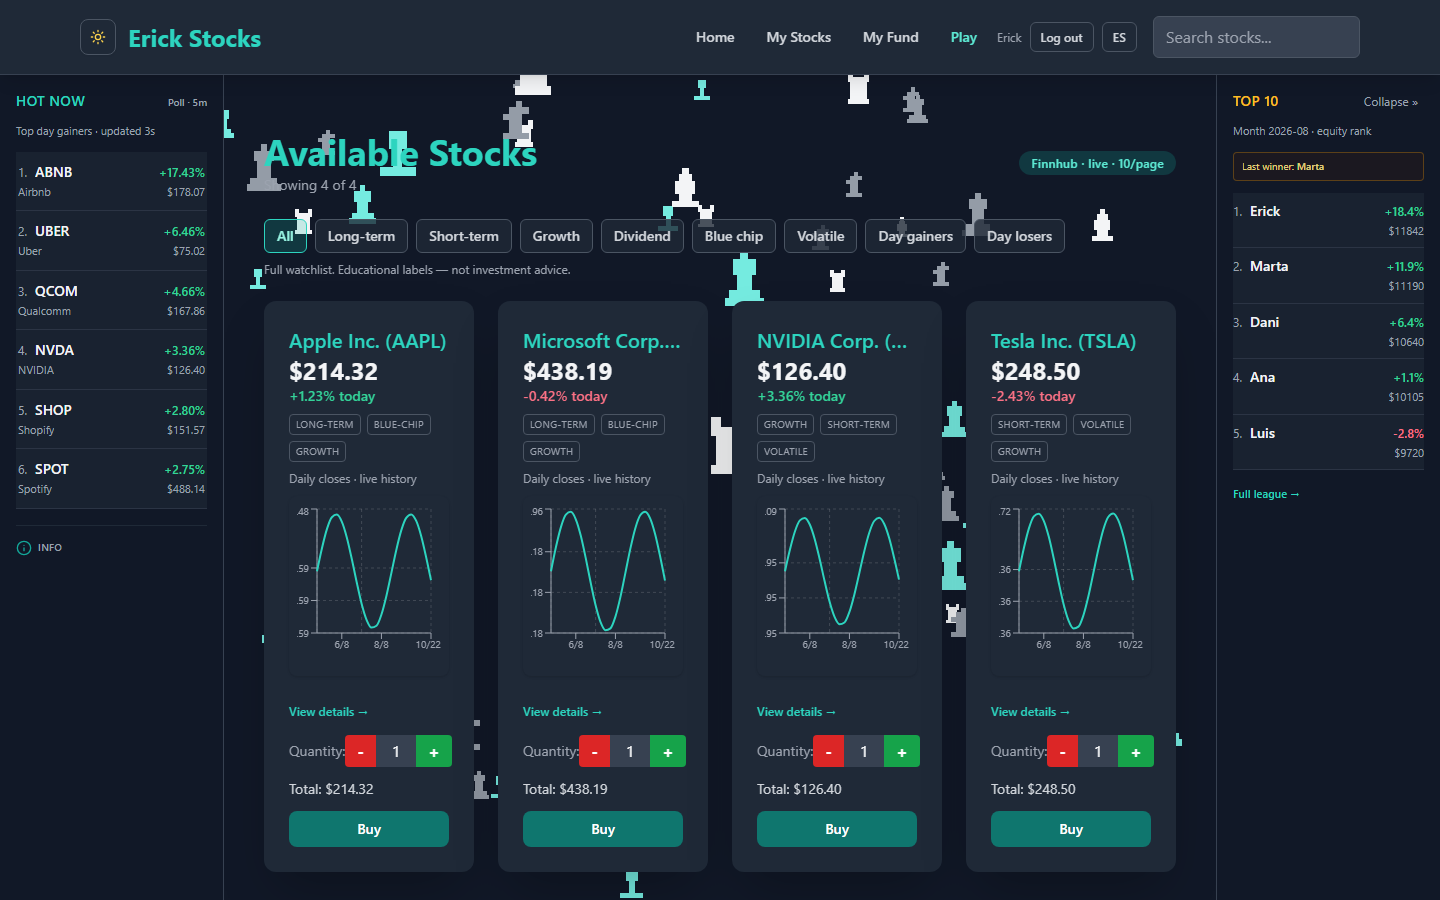
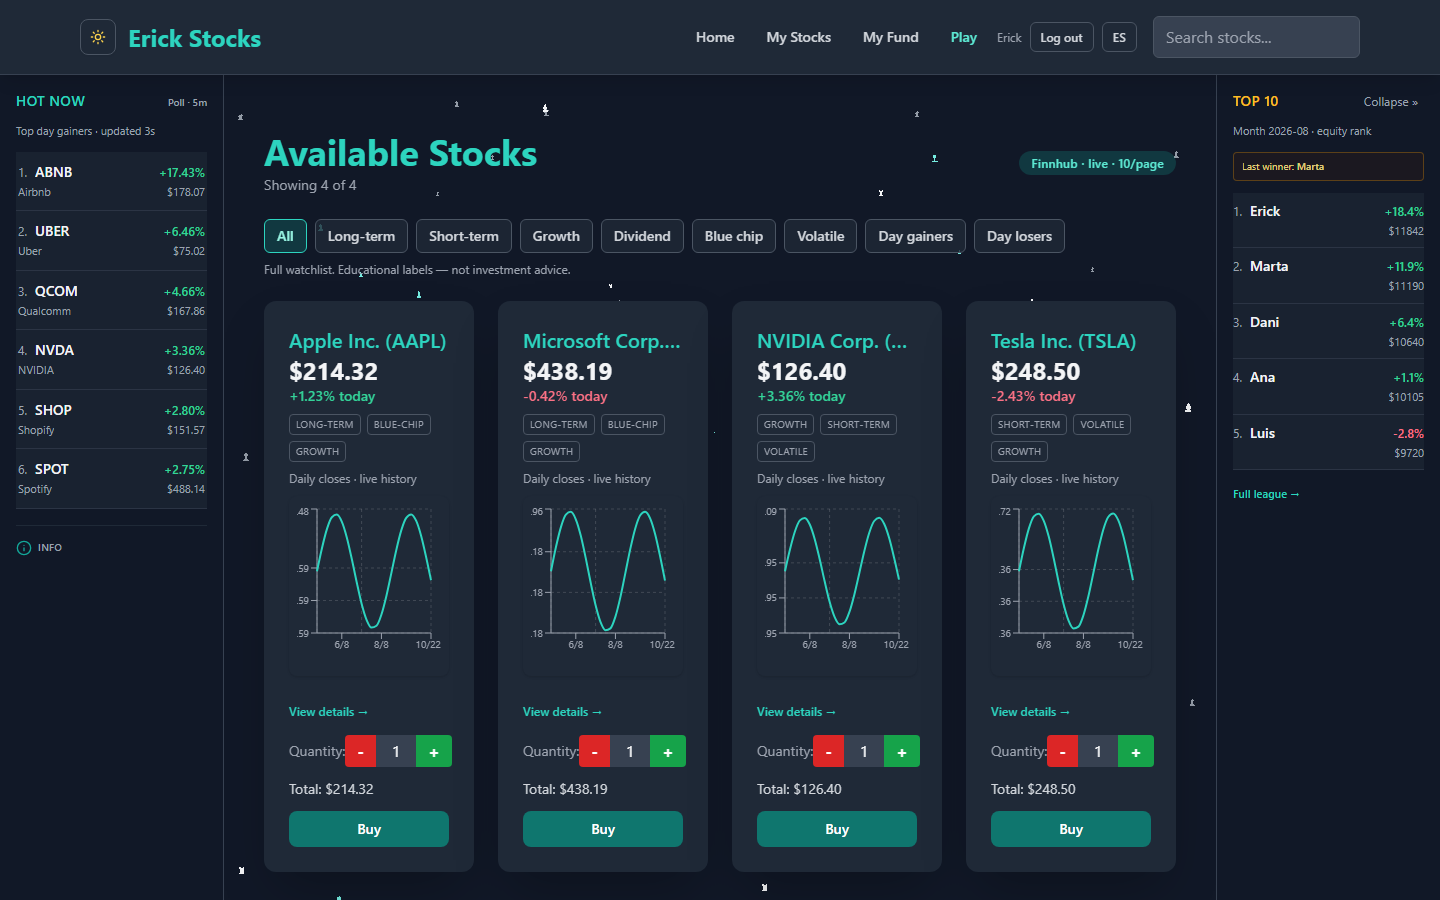
chore: drop the unused RequirePlayer guard and calm the 3D background
RequirePlayer was never imported by anything but its own test. It went with
three i18n strings only it used (privateGames, privateGamesBody, joinToPlay),
in both locales.

The background chess sprites drop from scale 8 to 1.6 — 80% smaller. At the
old size they read as foreground clutter over the market grid rather than as
background, which cost the page some of its seriousness. Screenshots
regenerated.

README catches up with the day: the component map gains MarketBackground,
CategoryFilter and NoticeBanner and loses RequirePlayer, the hook table gains
useInertBackground and useReducedMotion, and the test figures are re-stated
against an actual run (771 in 68 files, 98.5%, 29 Playwright runs).

diff --git a/i18n/locales.ts b/i18n/locales.ts
@@ -16,7 +16,6 @@ const en = {
   total: "Total:",
   incAria: "Increase quantity",
   decAria: "Decrease quantity",
-  joinToPlay: "Join to play",
   publicViewTrade: "Public view — join Play to trade in the monthly game.",
   chartLive: "Daily closes · live history",
   chartSim: "Sparkline · simulated",
@@ -72,9 +71,6 @@ const en = {
   modeEphemeral: "Server ephemeral + local backup",
   modeLocal: "This device (local)",
   noScoresMonth: "No scores yet this month.",
-  privateGames: "Private games area",
-  privateGamesBody:
-    "Quotes, charts and Hot now are public. Buying/selling, your portfolio and the monthly league need a player seat (nickname + PIN).",
   myPortfolio: "My Portfolio",
   portfolioSummary: "Portfolio Summary",
   totalNet: "Total Net Value:",
@@ -191,7 +187,6 @@ const es: Dict = {
   total: "Total:",
   incAria: "Aumentar cantidad",
   decAria: "Disminuir cantidad",
-  joinToPlay: "Entrar a jugar",
   publicViewTrade:
     "Vista pública — entrá a Jugar para operar en el juego mensual.",
   chartLive: "Cierres diarios · histórico real",
@@ -248,9 +243,6 @@ const es: Dict = {
   modeEphemeral: "Servidor efímero + backup local",
   modeLocal: "Este dispositivo (local)",
   noScoresMonth: "Sin puntajes este mes.",
-  privateGames: "Área de juego privada",
-  privateGamesBody:
-    "Cotizaciones, charts y Hot son públicos. Comprar/vender, tu portfolio y la liga mensual requieren un asiento (nick + PIN).",
   myPortfolio: "Mi portfolio",
   portfolioSummary: "Resumen del portfolio",
   totalNet: "Valor neto total:",

diff --git a/components/organisms/ThreeDBackground.tsx b/components/organisms/ThreeDBackground.tsx
@@ -302,7 +302,9 @@ const ThreeDBackground: React.FC = () => {
         const particleCount = 200; // Increased slightly for more variety
         const group = new THREE.Group();
         particleGroupRef.current = group;
-        const spriteScale = 8; // Slightly increased scale for pixel art visibility
+        // 80% smaller than the original 8: at that size the pieces read as
+        // foreground clutter over the market grid rather than as background.
+        const spriteScale = 1.6;
 
         for (let i = 0; i < particleCount; i++) {
           if (particleTexturesRef.current.length === 0) break; // Safety break

diff --git a/README.md b/README.md
@@ -79,22 +79,25 @@ components/
   molecules/   TradePanel · QuantityStepper · StatCard · TagList · ChartPanel
                ComicTooltip · DetailSkeleton · Hot/Rank/StockListItem
   organisms/   StockCard · StockDetailModal · StockGrid · HotSidebar
-               RankSidebar · Navbar · SellStockForm · ErrorBoundary
+               RankSidebar · Navbar · SellStockForm · CategoryFilter
+               NoticeBanner · MarketBackground · ErrorBoundary
   templates/   AppShell
-  routing/     RequireAuth · RequirePlayer
+  routing/     RequireAuth
 pages/         Home · League · MyStocks · MyFund
 ```
 
-| Hook                                          | Owns                                                                 |
-| --------------------------------------------- | -------------------------------------------------------------------- |
-| [`useStockCatalog`](hooks/useStockCatalog.ts) | initial load, paging, debounced search, the tick and live-poll loops |
-| [`useTrading`](hooks/useTrading.ts)           | portfolio hydration and buy/sell through one guarded path            |
-| [`useStockDetail`](hooks/useStockDetail.ts)   | detail fetch + live quote overlay (no refetch on price polls)        |
-| [`useTradePanel`](hooks/useTradePanel.ts)     | quantity, affordability, guarded submit — shared by card and modal   |
-| [`useSellForm`](hooks/useSellForm.ts)         | position lookup and sell validation                                  |
-| [`useQueryFilters`](hooks/useQueryFilters.ts) | filters ↔ URL, so any view is linkable                               |
-| [`useFocusTrap`](hooks/useFocusTrap.ts)       | dialog focus containment and restore                                 |
-| [`useHotStocks`](hooks/useHotStocks.ts)       | hot-gainers socket with poll fallback                                |
+| Hook                                                | Owns                                                                 |
+| --------------------------------------------------- | -------------------------------------------------------------------- |
+| [`useStockCatalog`](hooks/useStockCatalog.ts)       | initial load, paging, debounced search, the tick and live-poll loops |
+| [`useTrading`](hooks/useTrading.ts)                 | portfolio hydration and buy/sell through one guarded path            |
+| [`useStockDetail`](hooks/useStockDetail.ts)         | detail fetch + live quote overlay (no refetch on price polls)        |
+| [`useTradePanel`](hooks/useTradePanel.ts)           | quantity, affordability, guarded submit — shared by card and modal   |
+| [`useSellForm`](hooks/useSellForm.ts)               | position lookup and sell validation                                  |
+| [`useQueryFilters`](hooks/useQueryFilters.ts)       | filters ↔ URL, so any view is linkable                               |
+| [`useFocusTrap`](hooks/useFocusTrap.ts)             | dialog focus containment and restore                                 |
+| [`useInertBackground`](hooks/useInertBackground.ts) | marking the page behind an overlay inert                             |
+| [`useReducedMotion`](hooks/useReducedMotion.ts)     | whether to animate at all                                            |
+| [`useHotStocks`](hooks/useHotStocks.ts)             | hot-gainers socket with poll fallback                                |
 
 [`StockContext`](context/StockContext.tsx) is only a composition root; the state
 transitions live in [`stockReducer`](context/stockReducer.ts) as a pure,
@@ -401,8 +404,9 @@ turning it on found refs being written during render (unsafe under concurrent
 rendering), two `setState` calls in effects that had better patterns available,
 a `stopPropagation` on a non-interactive element, and a dead import.
 
-**770 unit tests in 68 files — one test file per source file** — plus 29
-Playwright specs, of which 9 are a full WCAG 2.1 AA axe scan. Vitest runs
+**771 unit tests in 68 files — one test file per source file** — plus 29
+Playwright runs, including a full WCAG 2.1 AA axe scan of every page in both
+themes and on a phone viewport. Vitest runs
 everything under `jsdom` with Testing Library; components render against the
 real i18n and theme providers, so tests assert on the strings users actually
 see.
@@ -415,6 +419,8 @@ see.
 | services                      |  **99%** | quote merging, detail mapping, API errors, the offline league fallback      |
 | context                       |  **98%** | every reducer action, the Auth0 bridge and its redirect callback            |
 | hooks                         |  **96%** | debounced search, refresh loops, guest routing, focus trap                  |
+
+**98.5% overall**, and CI fails if it drops — see the coverage gate above.
 
 `store.ts` is unit-tested against a stubbed Neon tagged template — the mapping
 and the money guards, including that a buy the cash cannot cover and a sell of
